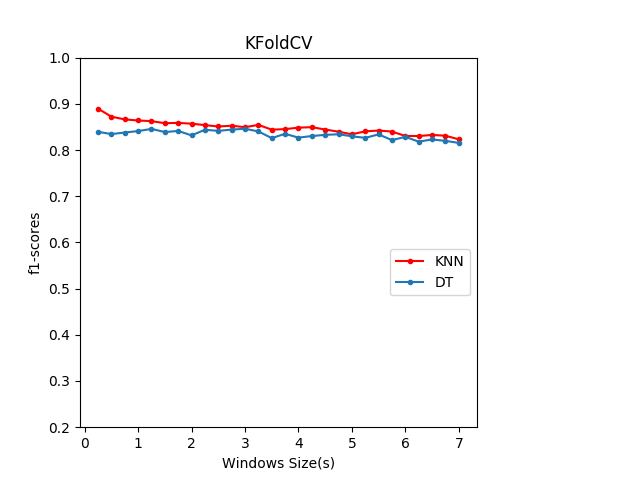
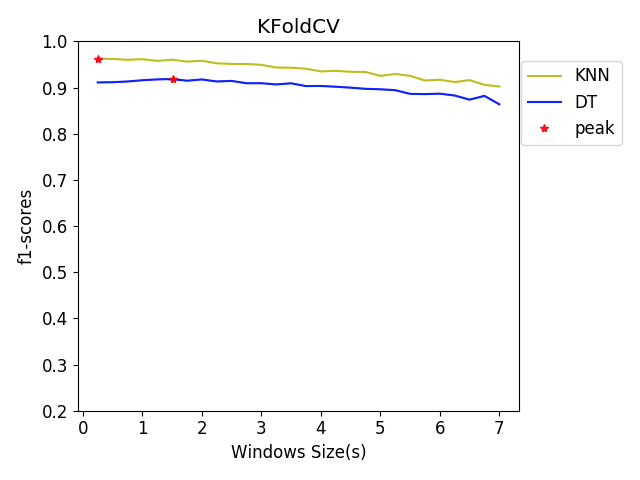
pretty plot and clean code

diff --git a/include/main.py b/include/main.py
@@ -5,70 +5,65 @@ from include.CVs import KFoldCV,SubjectCV
 from matplotlib import pyplot as plt
 import time
 import json
-
-
-
 from include.dataPrepration import data_preparation
 
+
 def plot(result_dict):
+    plt.rcParams['font.size'] = 12
+    print(result_dict)
     for key in result_dict:
+        print(key + " starting.")
         fig, ax = plt.subplots()
-        ax.plot(result_dict[key]['KNN'][1], result_dict[key]['KNN'][0], 'r.-',
-                result_dict[key]['DT'][1], result_dict[key]['DT'][0], '.-')
-        ax.legend(('KNN', 'DT'),
-                   loc='upper right', bbox_to_anchor=(1, 0.5))
-        box = ax.get_position()
-        # ax.set_position([box.x0, box.y0, box.width * 0.8, box.height])
+        ax.plot(result_dict[key]['KNN'][1], result_dict[key]['KNN'][0], 'y-',
+                result_dict[key]['DT'][1], result_dict[key]['DT'][0], 'b-')
+        print(np.argmax(result_dict[key]['KNN'][0]))
+        ax.plot((np.argmax(result_dict[key]['KNN'][0]))*0.25 + 0.25, max(result_dict[key]['KNN'][0]), 'r*', label='peak')
+        ax.plot((np.argmax(result_dict[key]['DT'][0])) * 0.25 + 0.25, max(result_dict[key]['DT'][0]), 'r*',
+                label='peak')
+        ax.legend(('KNN','DT','peak'),
+                   loc=(1.004, .72))
         ax.set(ylim=[0.2,1], title=key , xlabel='Windows Size(s)', ylabel='f1-scores')
-        # ax.title('Decision Tree Classifier')
-        # ax.ylim(0.2, 1)
-        # ax.xlabel('window sizes')
-        # plt.ylabel('f1-scores')
         plt.savefig(key)
-        # plt.savefig('KNN')
         plt.show()
 
-def start(classifiers):
-    CVs=[KFoldCV,SubjectCV]
+def start(classifiers,CVs):
     datafiles=[]
-    result_dict = {}
-    prepared_data={}
-    windows_data={}
-    run_times=[]
     for i in range(1,18):
         datafiles.append("../data/subject"+str(i)+"_ideal.log")
 
+    windows_data={}
     for i in np.arange(0.25, 7.25, 0.25):
         X,y, X_index= data_preparation(datafiles,i)
-        # prepared_data=json.load("./windowed_data" + open(str(i)))
         windows_data[i]=(X,y,X_index)
+        #if data is prepared uncomment these
+        # prepared_data=json.load(open("./windowed_data/" + str(i)))
         # windows_data[i] = (prepared_data['X'], prepared_data['y'], prepared_data['X_Index'])
 
+    result_dict = {}
+    run_times = []
     for cv in CVs:
+        print(cv.__name__ + " starting.")
         temp={}
-
-        for index, classifier in enumerate(classifiers):
+        for classifier in classifiers:
+            print(classifier + " starting.")
             start = time.time()
-            scoreList=cv(windows_data,classifier)
+            scores_dict=cv(windows_data,classifiers[classifier])
             end = time.time()
-            run_times.append((cv.__name__,"KNN" if index==0 else "DT", end - start))
+            run_times.append((cv.__name__,classifier, (end - start)/60))
             resultScore = []
             resultWindow = []
-            for i in range(0, len(scoreList)):
-                resultScore.append(scoreList[i][0])
-                resultWindow.append((i + 1) * 0.25)
-            temp["KNN" if index==0 else "DT"]=(resultScore,resultWindow)
-            print(run_times)
+            for window_size in scores_dict:
+                resultScore.append(scores_dict[window_size])
+                resultWindow.append(window_size)
+            temp[classifier]=(resultScore,resultWindow)
 
         result_dict[cv.__name__]=temp
-
+    print(run_times)
     plot(result_dict)
 
 
 
-classifiers=[]
-classifiers.append(KNeighborsClassifier(n_neighbors=3))
-classifiers.append(DecisionTreeClassifier(criterion="entropy", random_state=0))
-start(classifiers)
-
-
+classifiers={'KNN':KNeighborsClassifier(n_neighbors=3),
+             'DT':DecisionTreeClassifier(criterion="entropy", random_state=0)}
+CVs=[KFoldCV,SubjectCV]
+start(classifiers,CVs)

diff --git a/include/dataPrepration.py b/include/dataPrepration.py
@@ -42,9 +42,6 @@ def mean(x):
 
 
 def data_preparation(filenames, window_size):
-    """
-    in this function we only select timestamp, 9 sensors' acceleration and label columns and window them.
-    """
     # data={}
     sc = init_spark().sparkContext
     X=sc.parallelize([])
@@ -79,44 +76,6 @@ def data_preparation(filenames, window_size):
     # data['X']=X.collect()
     # data['y']=y.collect()
     # data['X_Index']=X_Index
-    #
     # json.dump(data, open("./windowed_data" + str(window_size), 'w'))
-    # print("###############")
-    # print(X_Index)
     # return np.array(data['X']).astype(np.float64), np.array(data['y']).astype(np.float64), X_Index
     return np.array(X.collect()).astype(np.float64), np.array(y.collect()).astype(np.float64), X_Index
-
-
-# def data_preparation2(filenames, window_size):
-#     """
-#     doesn't return indices. for all of the subjects reads data and sort them by time and window them.
-#     """
-#     sc = init_spark().sparkContext
-#     X=sc.parallelize([])
-#     rdd = sc.parallelize([])
-#     data_count = int(window_size / timestamp)
-#     for filename in filenames:
-#         rdd_temp = sc.textFile(filename) \
-#                 .map(lambda row: row.split())
-#
-#         print(rdd_temp.count())
-#         rdd=rdd.union(rdd_temp)
-#
-#     X_temp = rdd.map(lambda x: ((float(x[0]), float(x[1])), ([float(x[2]), float(x[3]),float(x[4])
-#                                     , float(x[15]), float(x[16]), float(x[17])
-#                                     , float(x[28]), float(x[29]), float(x[30])
-#                                     , float(x[41]), float(x[42]), float(x[43])
-#                                     , float(x[54]), float(x[55]), float(x[56])
-#                                     , float(x[67]), float(x[68]), float(x[69])
-#                                     , float(x[80]), float(x[81]), float(x[82])
-#                                     , float(x[93]), float(x[94]), float(x[95])
-#                                     , float(x[106]), float(x[107]), float(x[108])],
-#                                         [int(x[119])]))).sortByKey().zipWithIndex()
-#     X_temp = X_temp.map(lambda x: (int(x[1] / data_count), x[0][1])) \
-#                 .map(lambda x: (x[0], (x[1], 1)))\
-#                 .reduceByKey(lambda x, y: addList(x, y)) \
-#                 .map(lambda x: mean(x[1]))
-#
-#     y = X_temp.map(lambda x: x[1])
-#     X = X_temp.map(lambda x: x[0])
-#     return np.array(X.collect()).astype(np.float64), np.array(y.collect()).astype(np.float64)

diff --git a/include/CVs.py b/include/CVs.py
@@ -1,31 +1,42 @@
-from sklearn.model_selection import cross_val_score
+from sklearn.model_selection import cross_val_score, ShuffleSplit
 import numpy as np
 
 
-def KFoldCV(windows_data,alg):
-    scoreList=[]
+def kfold_cv(X, y):
+    rs = ShuffleSplit(n_splits=10, random_state=0)
+    for trainIndex, testIndex in rs.split(X, y):
+        yield trainIndex, testIndex
+
+
+#{windowsize:score}
+def KFoldCV(windows_data, alg):
+    scores_dict = {}
     for window_data in windows_data:
-        # for 10-fold
-        score = cross_val_score(alg, windows_data[window_data][0], windows_data[window_data][1], cv=10, scoring='f1_micro')
-        scoreList.append((score.mean(),window_data))
-    print(scoreList)
-    return scoreList
+        custom_cv = kfold_cv(windows_data[window_data][0], windows_data[window_data][1])
+        score = cross_val_score(alg, windows_data[window_data][0], windows_data[window_data][1], cv=custom_cv,
+                                scoring='f1_micro')
+        scores_dict[window_data]=score.mean()
+    print(scores_dict)
+    return scores_dict
+
 
 def subject_cv(X_index):
     i = 0
     while i < len(X_index):
-        testIndex = np.arange(X_index[i][1][0],X_index[i][1][1]+1, dtype=int)
-        trainIndex = np.concatenate((np.arange(0,X_index[i][1][0], dtype=int),np.arange(X_index[i][1][1]+1,X_index[len(X_index)-1][1][1]+1, dtype=int)),axis=None)
-        # print(trainIndex)
-        # print(testIndex)
+        testIndex = np.arange(X_index[i][1][0], X_index[i][1][1] + 1, dtype=int)
+        trainIndex = np.concatenate((np.arange(0, X_index[i][1][0], dtype=int),
+                                     np.arange(X_index[i][1][1] + 1, X_index[len(X_index) - 1][1][1] + 1, dtype=int)),
+                                    axis=None)
         yield trainIndex, testIndex
         i += 1
 
-def SubjectCV(windows_data,alg):
-    scoreList=[]
+
+def SubjectCV(windows_data, alg):
+    scores_dict = {}
     for window_data in windows_data:
         custom_cv = subject_cv(windows_data[window_data][2])
-        score = cross_val_score(alg, windows_data[window_data][0], windows_data[window_data][1], cv=custom_cv, scoring='f1_micro')
-        scoreList.append((score.mean(), window_data))
-    print(scoreList)
-    return scoreList
+        score = cross_val_score(alg, windows_data[window_data][0], windows_data[window_data][1], cv=custom_cv,
+                                scoring='f1_micro')
+        scores_dict[window_data]=score.mean()
+    print(scores_dict)
+    return scores_dict
